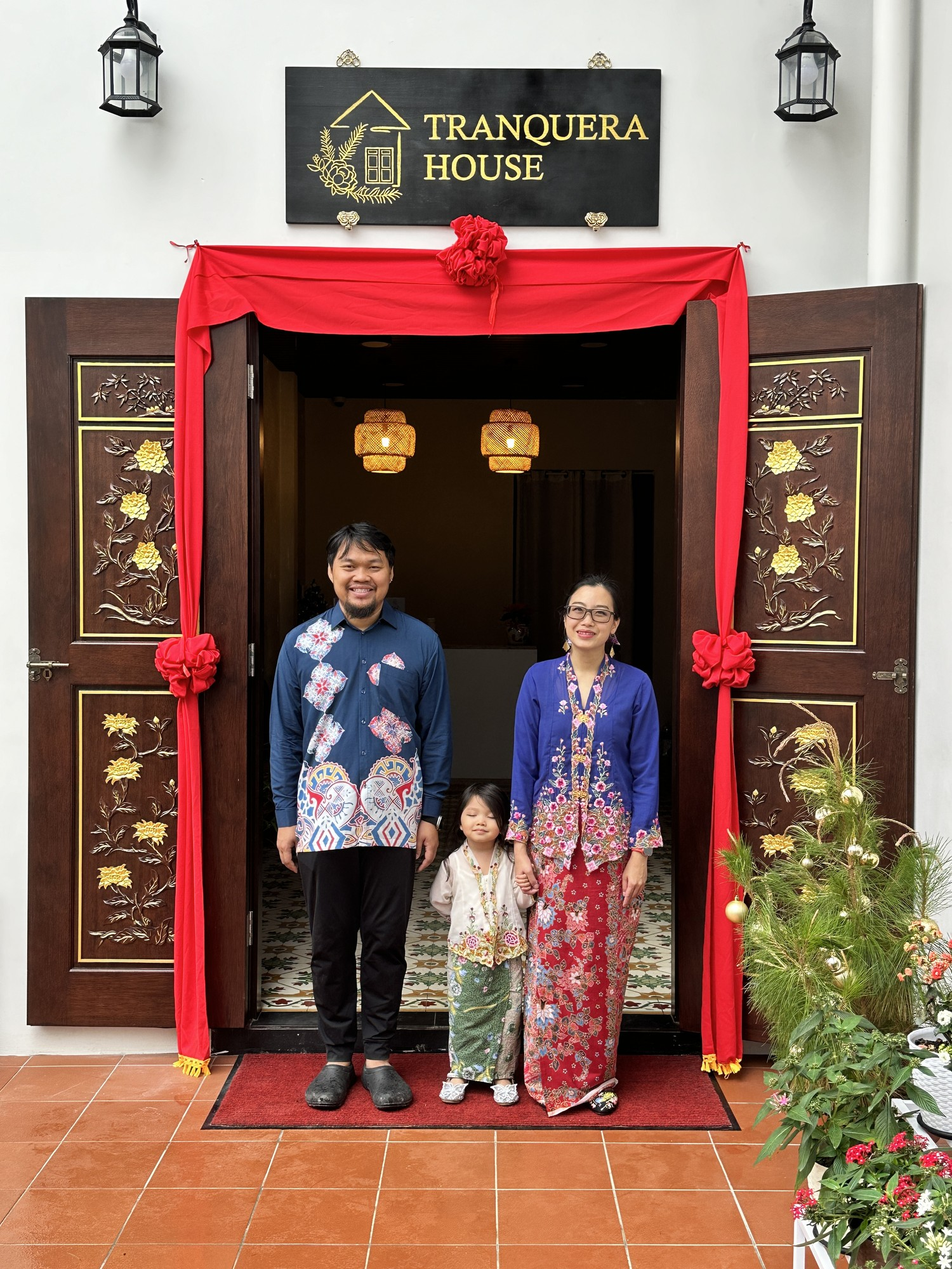
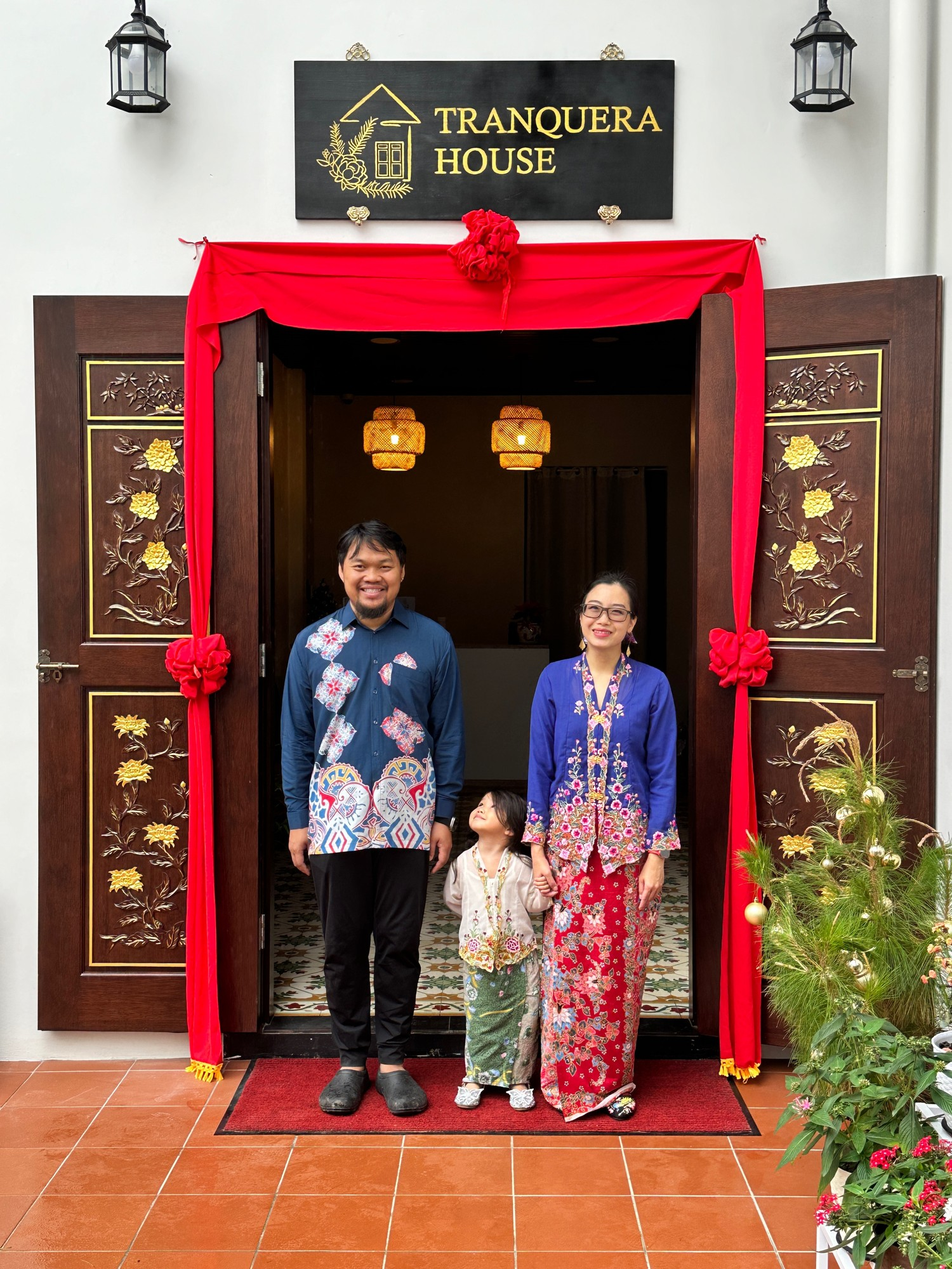
Changed family photo

diff --git a/index.html b/index.html
@@ -92,13 +92,16 @@
         </p>
       </div>
 
-      <div class="story-placeholder image-placeholder">
-        Family photo
-      </div>
-    </section>
+      <div class="story-photo">
+  <img src="images/family.jpg" alt="The family behind Tranquera House">
+</div>
 
-    <section class="dining-section section" id="dining">
-      <div class="section-heading">
+</section>
+
+<section class="dining-section section" id="dining">
+
+    <div class="section-heading">
+        ...>
         <p class="eyebrow">Home-Cooked Peranakan Cuisine</p>
         <h2>Taste the heritage</h2>
         <p>
